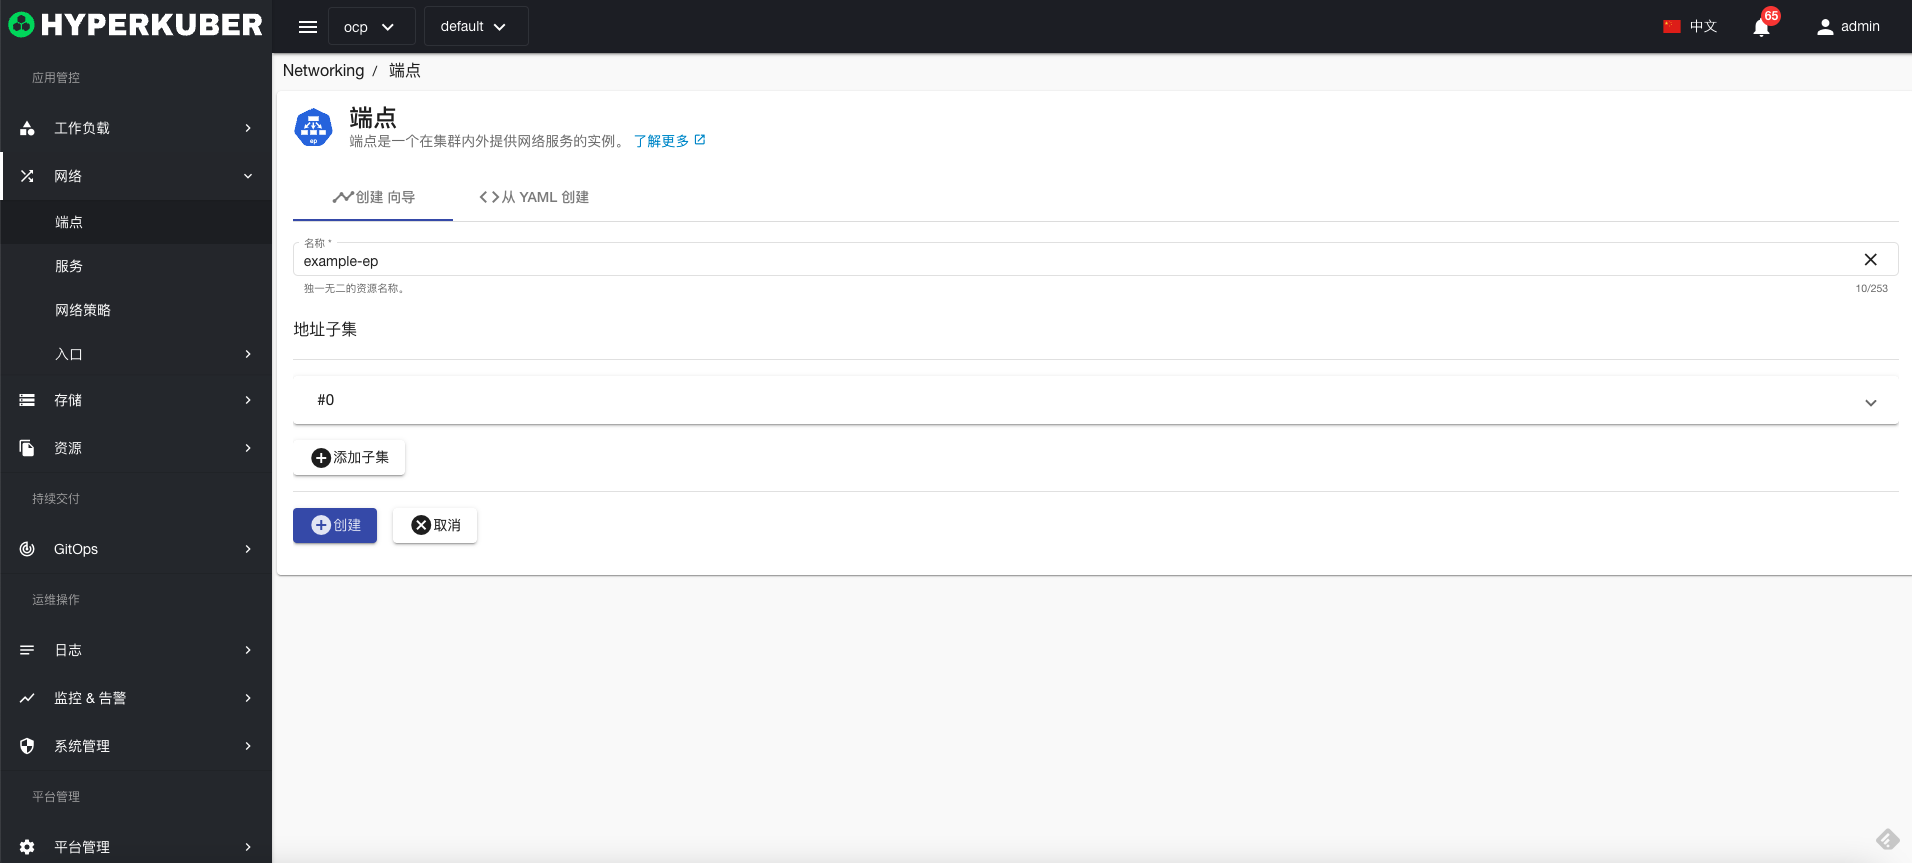
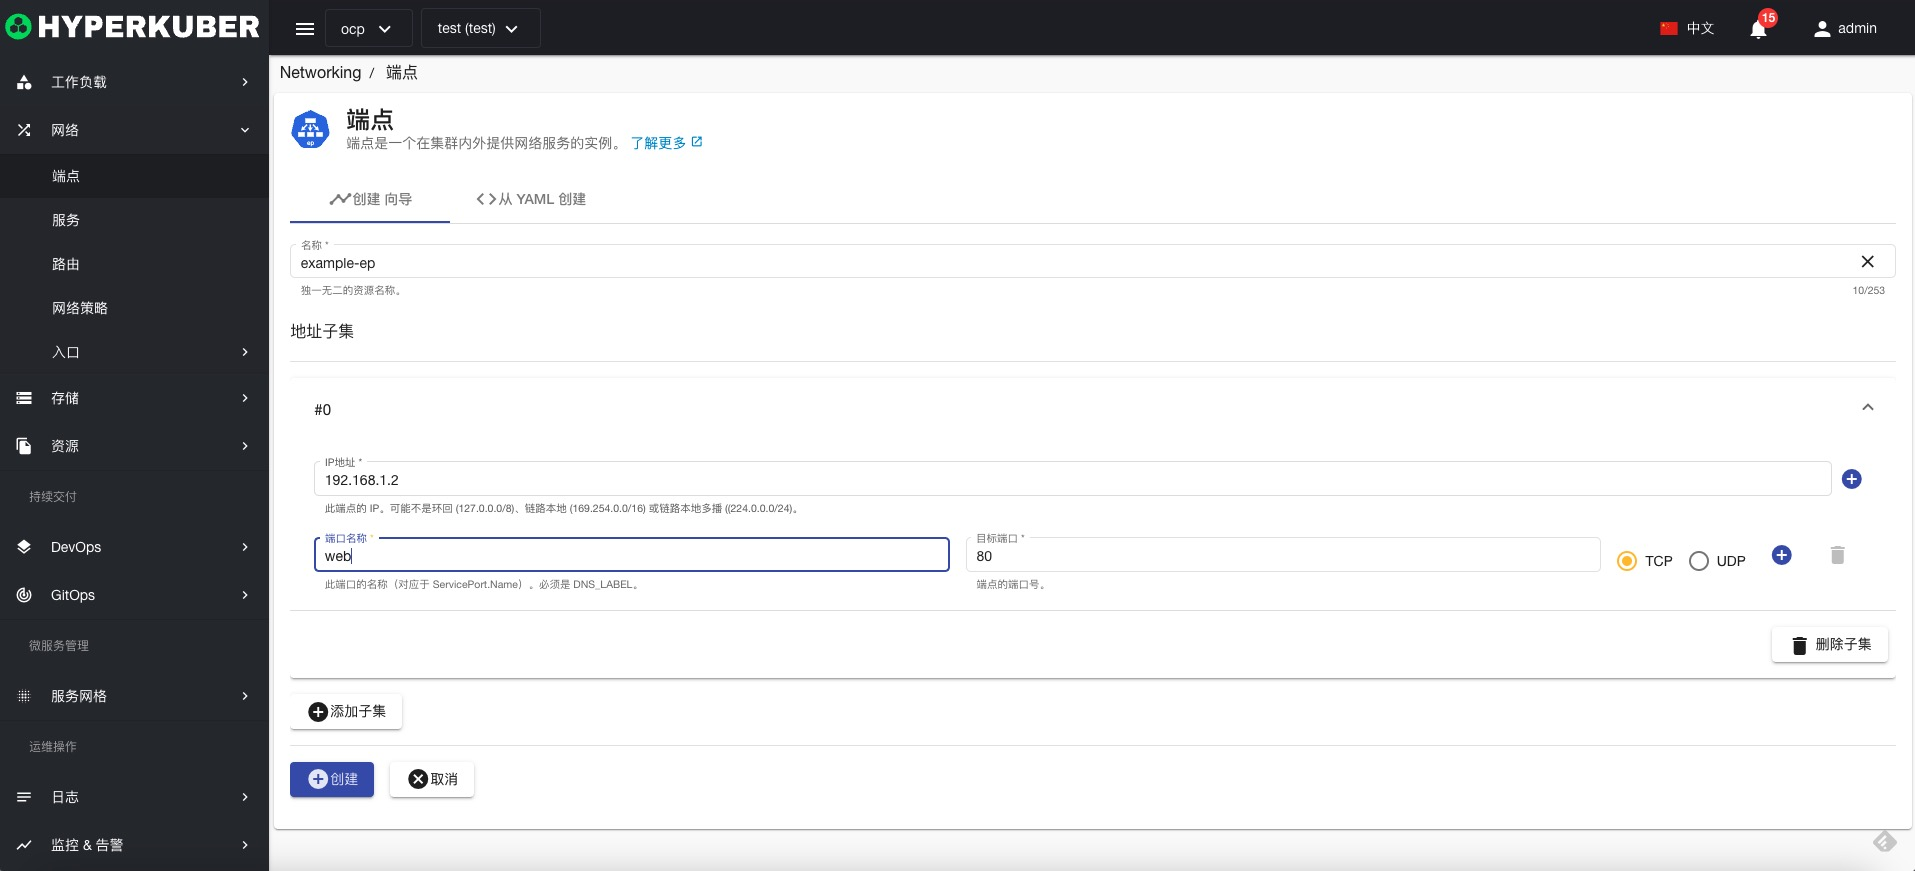
add network md files

diff --git a/assets/user-guide/network/networkpolicy-zh.md b/assets/user-guide/network/networkpolicy-zh.md
@@ -1,0 +1,49 @@
+# 网络策略
+
+网络策略是关于如何允许 pod 组相互通信以及与其他网络端点通信的规范
+![Minion](../../../assets/images/network/np-list.jpg)
+## 网络策略操作
+
+![Minion](../../../assets/images/network/np-operation.jpg)
+支持以下界面图形化操作：
+
+* 标签
+* 注解
+* Yaml/Json编辑
+
+### 创建
+创建网络策略，点击“创建网络策略”按钮，进入创建网络策略页面，填写必要参数
+![Minion](../../../assets/images/network/np-create1.jpg)
+参数
+名称：网络策略名称
+网络策略模版： 
+* 允许所有入口流量
+* 拒绝所有入口流量
+* 允许所有出口流量
+* 拒绝所有出口流量
+* 拒绝所有入口和出口流量
+* 自定义：用户可以自定义网路流量限制
+
+### Yaml创建
+网络策略可通过Yaml文件直接创建
+![Minion](../../../assets/images/network/np-create-yaml.jpg)
+### 网络策略详情
+点击网络策略名称的链接，即可进入网络策略的详情页面
+概览信息
+![Minion](../../../assets/images/network/np-info1.jpg)
+
+Yaml信息
+![Minion](../../../assets/images/network/np-info2.jpg)
+事件信息
+![Minion](../../../assets/images/network/np-info3.jpg)
+
+### 编辑
+选择需要编辑的网络策略，点击”编辑“按钮，进入编辑网络策略页面，修改必要参数，即可完成删除操作。
+* 支持图形化修改网络策略参数
+![Minion](../../../assets/images/network/np-edit1.jpg)
+* 支持Yaml修改
+![Minion](../../../assets/images/network/np-edit-yaml.jpg)
+### 删除
+选择需要删除的网络策略，点击多选框选择，点击“删除按钮”，在确定输入框输入“yes”，即可完成删除操作。
+### 刷新
+点击“刷新”，即可完成网络策略列表的刷新。

diff --git a/assets/user-guide/network/ingress-zh.md b/assets/user-guide/network/ingress-zh.md
@@ -1,0 +1,51 @@
+# 入口
+
+入口可以提供负载平衡、SSL 终止和基于名称的虚拟主机。
+![Minion](../../../assets/images/network/ing-list.jpg)
+## 入口操作
+
+![Minion](../../../assets/images/network/ing-operation.jpg)
+支持以下界面图形化操作：
+
+* 标签
+* 注解
+* Yaml/Json编辑
+
+### 创建
+创建入口，点击“创建入口”按钮，进入创建入口页面，填写必要参数
+![Minion](../../../assets/images/network/ing-create1.jpg)
+参数
+名称：入口名称
+入口规则： 
+* 主机：入口主机名称
+* 路径：入口路径
+* 路径类型：入口类型，
+ImplementationSpecific
+Exact
+Prefix
+* 服务：入口转发服务
+* 端口：入口转发服务端口
+
+### Yaml创建
+入口可通过Yaml文件直接创建
+![Minion](../../../assets/images/network/ing-create-yaml.jpg)
+### 入口详情
+点击入口名称的链接，即可进入入口的详情页面
+概览信息
+![Minion](../../../assets/images/network/ing-info1.jpg)
+
+Yaml信息
+![Minion](../../../assets/images/network/ing-info2.jpg)
+事件信息
+![Minion](../../../assets/images/network/ing-info3.jpg)
+
+### 编辑
+选择需要编辑的入口，点击”编辑“按钮，进入编辑入口页面，修改必要参数，即可完成删除操作。
+* 支持图形化修改入口参数
+![Minion](../../../assets/images/network/ing-edit1.jpg)
+* 支持Yaml修改
+![Minion](../../../assets/images/network/ing-edit-yaml.jpg)
+### 删除
+选择需要删除的入口，点击多选框选择，点击“删除按钮”，在确定输入框输入“yes”，即可完成删除操作。
+### 刷新
+点击“刷新”，即可完成入口列表的刷新。

diff --git a/assets/user-guide/network/service-zh.md b/assets/user-guide/network/service-zh.md
@@ -1,0 +1,46 @@
+# 服务
+
+服务是一个在集群内外提供网络服务的实例
+![Minion](../../../assets/images/network/svc-list.jpg)
+## 服务操作
+
+![Minion](../../../assets/images/network/svc-operation.jpg)
+支持以下界面图形化操作：
+
+* 标签
+* 注解
+* Yaml/Json编辑
+
+### 创建
+创建服务，点击“创建服务”按钮，进入创建服务页面，填写必要参数
+![Minion](../../../assets/images/network/svc-create1.jpg)
+参数
+名称：服务名称
+服务类型： 支持集群IP，节点端口，负载均衡器，外部名称
+会话亲和性：是否保持会话
+Pod选择器：选择服务转发的Pod
+暴露端口： 服务的端口号
+
+### Yaml创建
+服务可通过Yaml文件直接创建
+![Minion](../../../assets/images/network/svc-create-yaml.jpg)
+### 服务详情
+点击服务名称的链接，即可进入服务的详情页面
+概览信息
+![Minion](../../../assets/images/network/svc-info1.jpg)
+
+Yaml信息
+![Minion](../../../assets/images/network/svc-info2.jpg)
+事件信息
+![Minion](../../../assets/images/network/svc-info3.jpg)
+
+### 编辑
+选择需要编辑的服务，点击”编辑“按钮，进入编辑服务页面，修改必要参数，即可完成删除操作。
+* 支持图形化修改服务参数
+![Minion](../../../assets/images/network/svc-edit1.jpg)
+* 支持Yaml修改
+![Minion](../../../assets/images/network/svc-edit-yaml.jpg)
+### 删除
+选择需要删除的服务，点击多选框选择，点击“删除按钮”，在确定输入框输入“yes”，即可完成删除操作。
+### 刷新
+点击“刷新”，即可完成服务列表的刷新。

diff --git a/assets/user-guide/network/endpoints-zh.md b/assets/user-guide/network/endpoints-zh.md
@@ -1,0 +1,45 @@
+# 端点
+
+端点是一个在集群内外提供网络服务的实例
+![Minion](../../../assets/images/network/ep-list.jpg)
+## 端点操作
+
+![Minion](../../../assets/images/network/ep-operation.jpg)
+支持以下界面图形化操作：
+
+* 标签
+* 注解
+* Yaml/Json编辑
+
+### 创建
+创建端点，点击“创建端点”按钮，进入创建端点页面，填写必要参数
+![Minion](../../../assets/images/network/ep-create1.jpg)
+参数
+名称：端点名称
+地址子集：IP地址，端口名称，目标端口以及协议TCP/UDP
+
+### Yaml创建
+端点可通过Yaml文件直接创建
+![Minion](../../../assets/images/network/ep-create-yaml.jpg)
+### 端点详情
+点击端点名称的链接，即可进入端点的详情页面
+概览信息
+![Minion](../../../assets/images/network/ep-info1.jpg)
+
+Yaml信息
+![Minion](../../../assets/images/network/ep-info2.jpg)
+事件信息
+![Minion](../../../assets/images/network/ep-info3.jpg)
+
+### 编辑
+选择需要编辑的端点，点击”编辑“按钮，进入编辑端点页面，修改必要参数，即可完成删除操作。
+* 支持图形化修改服务参数
+![Minion](../../../assets/images/network/ep-edit1.jpg)
+* 支持Yaml修改
+![Minion](../../../assets/images/network/ep-edit-yaml.jpg)
+
+### 删除
+选择需要删除的端点，点击多选框选择，点击“删除按钮”，在确定输入框输入“yes”，即可完成删除操作。
+### 刷新
+点击“刷新”，即可完成端点列表的刷新。
+

diff --git a/assets/user-guide/network/ingressclass-zh.md b/assets/user-guide/network/ingressclass-zh.md
@@ -1,0 +1,31 @@
+# 入口类
+
+入口类为入口流量调度定义了不同的入口控制器。
+![Minion](../../../assets/images/network/ings-list.jpg)
+## 入口类操作
+
+![Minion](../../../assets/images/network/ings-operation.jpg)
+支持以下界面图形化操作：
+
+* 标签
+* 注解
+* Yaml/Json编辑
+
+
+### Yaml创建
+入口类可通过Yaml文件直接创建
+![Minion](../../../assets/images/network/ings-create1.jpg)
+### 入口类详情
+点击入口类名称的链接，即可进入入口类的详情页面
+概览信息
+![Minion](../../../assets/images/network/ings-info1.jpg)
+
+Yaml信息
+![Minion](../../../assets/images/network/ings-info2.jpg)
+事件信息
+![Minion](../../../assets/images/network/ings-info3.jpg)
+
+### 删除
+选择需要删除的入口类，点击多选框选择，点击“删除按钮”，在确定输入框输入“yes”，即可完成删除操作。
+### 刷新
+点击“刷新”，即可完成入口类列表的刷新。
